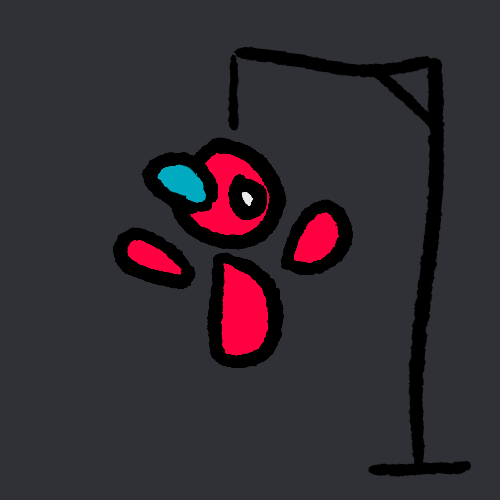
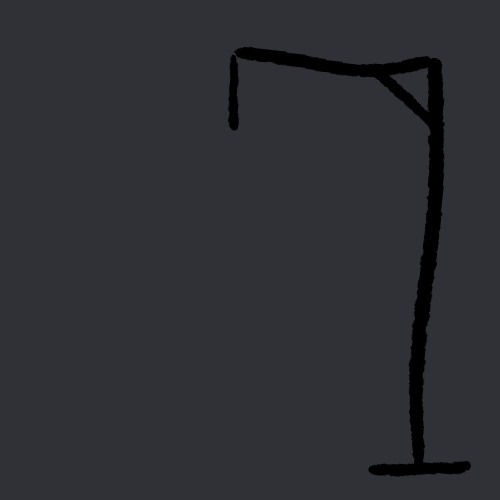
img fi

Changed region(s): [[0.27, 0.27, 0.72, 0.75], [0.21, 0.45, 0.39, 0.6]]

diff --git a/src/porygon/asset.ts b/src/porygon/asset.ts
@@ -32,6 +32,6 @@ export const PORY_THUMBS = {
 };
 
 export function hangmanThumb(stage: number) {
-  stage = clamp(stage, 0, 6);
+  stage = clamp(stage, 0, 10);
   return toGithubUrl(`pory/hangman/${stage}.png`);
 }

diff --git a/src/lib/lib_duck/models/hangman/noose.ts b/src/lib/lib_duck/models/hangman/noose.ts
@@ -1,7 +1,7 @@
 import { hangmanThumb } from 'porygon/asset';
 import { PorygonEmbed } from 'porygon/embed';
 
-const MAX = 6;
+const MAX = 10;
 
 export class HangmanNoose {
   private stage = 0;
